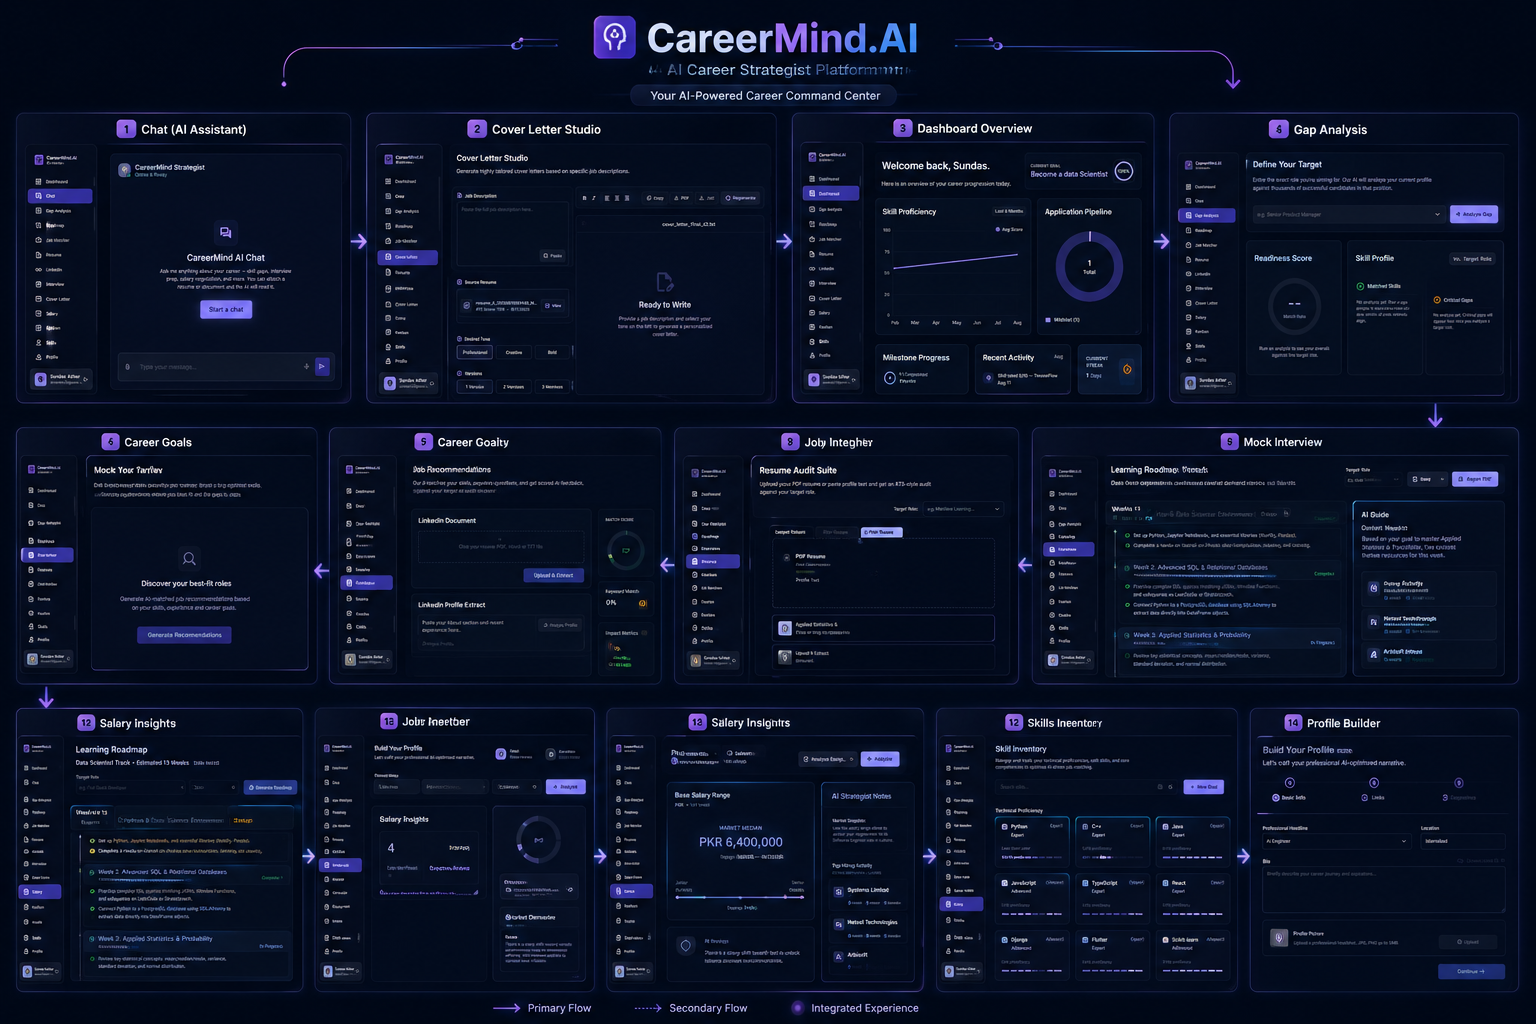
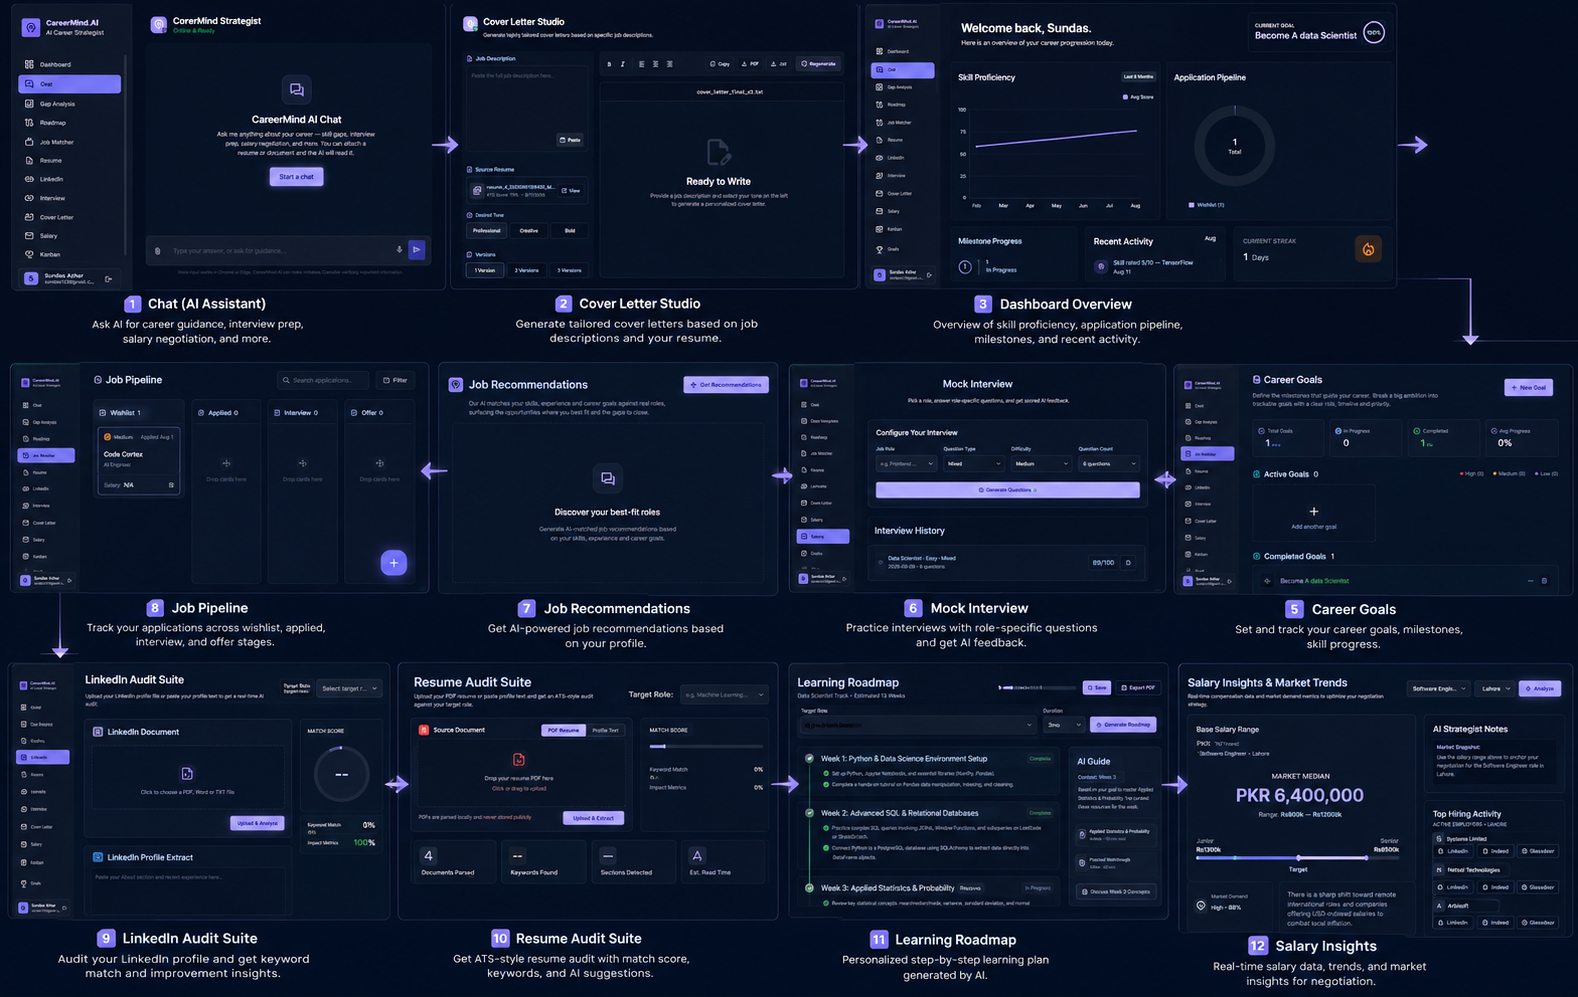
Update CareerMind README and image

diff --git a/README.md b/README.md
@@ -2,8 +2,6 @@
 
 ![Career Mind AI](careermind.png)
 
-> **Your AI-powered career companion.** From skills to salary — get personalized roadmaps, resume analysis, mock interviews, cover letters and real market insights in one place.
-
 ![React](https://img.shields.io/badge/React-18-61DAFB?logo=react&logoColor=white)
 ![Vite](https://img.shields.io/badge/Vite-5-646CFF?logo=vite&logoColor=white)
 ![TypeScript](https://img.shields.io/badge/TypeScript-Not%20Used-3178C6?logo=typescript&logoColor=white)
@@ -378,9 +376,3 @@ Put nginx in front of both and enable HTTPS.
 | Login says "Invalid email or password" | Credentials are verified against **Firebase**, not the local DB. Reset the password in the Firebase console or register a new account. |
 | Gemini key format `AQ.…` flagged invalid | These are valid v2 keys; the limitation is the free-tier quota, not the key. |
 | Cover letter / salary AI slow | Generation can take 5–20s on the free tier — the button shows a loading state. |
-
----
-
-## License
-
-This project is provided for educational and personal use. Please do not commit any API keys, service-account files, or other secrets to version control.
